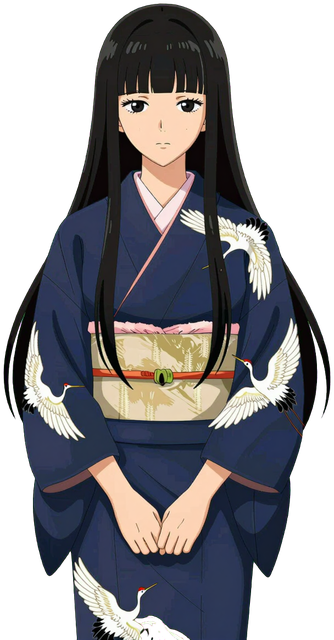
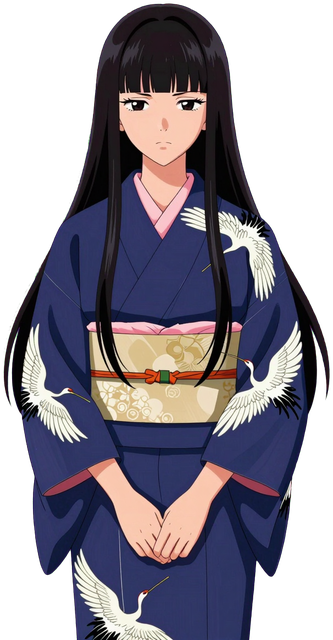
2.98.1 看板娘10人と練兵所の師範を「リアル寄り→アニメ調」の描き方で描き直し（ポーズはそのまま）、腕と体のすき間に残った白い背景・背景色を抜く（博多・津島・品川の男、村長も）

diff --git a/js/config.js b/js/config.js
@@ -1,6 +1,6 @@
 // 基本設定（数値はここで調整）
 window.SGK = window.SGK || {};
-SGK.VERSION = '2.98.0'; // 上げるときは index.html の <meta name="sgk-ver"> も同じ値に
+SGK.VERSION = '2.98.1'; // 上げるときは index.html の <meta name="sgk-ver"> も同じ値に
 SGK.SAVE_SCHEMA = 7; // セーブデータの形式番号（形式を変えたら上げて、save.js の migrate に変換を書く）
 SGK.CFG = {
   MIN_PER_SEC: 15,      // 現実1秒 = ゲーム内15分（1日 = 96秒）

diff --git a/index.html b/index.html
@@ -3,7 +3,7 @@
 <head>
 <meta charset="utf-8">
 <meta name="viewport" content="width=device-width,initial-scale=1,maximum-scale=1,user-scalable=no">
-<meta name="sgk-ver" content="2.98.0">
+<meta name="sgk-ver" content="2.98.1">
 <title>天下往来</title>
 <style>
   :root { --ink:#efe6cc; --panel:rgba(24,20,15,.88); --line:#8a7448; --gold:#f2c14e; }

diff --git a/tools/vivid_redo.py b/tools/vivid_redo.py
@@ -3,6 +3,7 @@
 ・名前は下の ITEMS のキー（town/w_kyo_a など）。省くと全員。
 ・今の絵（切り抜き済み）を背景色の上に置き、ComfyUI（Z-Image Turbo）の img2img で絵ごと描き直す（背景は単色にさせる）。
 ・背景色は服の色とぶつからない方（マゼンタ／緑）を絵の色から自動で選ぶ。
+・--real：2.98.1 ユーザーの好みの描き方。まずリアル寄りに描き直し（denoise 0.55）、それを元にアニメ調のセル塗りへ（denoise 0.65。anime_redo.py と同じ指示）。ポーズは今の絵のまま
 ・作業フォルダに 名前_raw.png（描き直した絵）と 名前.png（切り抜き、高さ640）を作る。assets へのコピーは --apply。
 """
 import os, sys, json, uuid, io, shutil, urllib.request
@@ -10,7 +11,8 @@ import numpy as np
 from PIL import Image
 sys.path.insert(0, os.path.dirname(os.path.abspath(__file__)))
 import gen_creature_art as G
-from gen_cute import KINDS, CHAR
+from gen_cute import KINDS, CHAR, REAL
+from anime_redo import ANIME as ANIME_REDO
 
 ROOT = os.path.join(os.path.dirname(os.path.abspath(__file__)), "..", "assets")
 TOWNS = ["tsushima", "shinagawa", "tsuruga", "yamaguchi", "sakata", "utazu", "sakai", "kyo", "niigata", "hakata"]
@@ -24,6 +26,15 @@ STYLE = ("hand drawn japanese TV anime cel illustration, same pose, same clothes
          "no glow, no rim light, the character stands in front of a {bg} background that fills the whole picture evenly, "
          "the background is one single flat {bg} color with nothing else in it")
 CW, CH = 896, 1216
+# 2.98.1 腕と体のすき間などに残った白い背景（外とつながっていないので抜けない）。描き直した絵（_raw、896×1216）の中の点 (x, y) を書くと、その点を含む白い所を抜く
+HOLES = {
+    "town/rp_hakata": [(647, 875), (261, 875)],
+    "town/rp_tsushima": [(249, 767), (664, 773)],
+    "town/rp_shinagawa": [(583, 865)],
+    "town/soncho_p": [(699, 949), (238, 474)],
+    "town/w_yamaguchi_a": [(380, 367)],  # --real で描き直した絵の座標
+    "town/w_tsushima_a": [(241, 432)],
+}
 
 
 def pick_bg(im):
@@ -81,11 +92,30 @@ def flood(mask):
     return out
 
 
-def cut(raw, bgname):
+def holes(rgb, pts):
+    """点を含む白い所（と、そのふち2px）を返す。ふちは白さに応じて半透明"""
+    from scipy import ndimage
+    mn, mx = rgb.min(-1), rgb.max(-1)
+    lab, _ = ndimage.label((mn > 0.85) & (mx - mn < 0.1))
+    m = np.zeros(mn.shape, bool)
+    for x, y in pts:
+        if lab[y, x]: m |= lab == lab[y, x]
+        else: print("  hole point not white:", x, y)
+    reg = ndimage.binary_dilation(m, iterations=2)
+    return np.where(reg, np.clip((mn - 0.55) / 0.35, 0, 1), 0.0)  # 1＝抜く
+
+
+def cut(raw, bgname, pts=()):
     rgb = np.asarray(raw.convert("RGB")).astype(np.float32) / 255
+    hk = holes(rgb, pts) if pts else None
     bgc = np.array(BGS[bgname][0], np.float32) / 255
     kb = key_alpha(rgb, bgname)
-    outside = flood(kb > 0.05)
+    # 外とつながった背景＋腕と体のすき間などに囲まれた背景色（はっきり背景色の画素が80以上のかたまり）
+    from scipy import ndimage
+    lab, _ = ndimage.label(kb > 0.05)
+    strong = ndimage.sum(kb > 0.6, lab, np.arange(lab.max() + 1))
+    keep = strong >= 80; keep[0] = False
+    outside = flood(kb > 0.05) | keep[lab]
     # 背景とつながった所の近く（3px）だけを半透明にしてよい所とする
     near = outside.copy()
     for _ in range(3):
@@ -105,6 +135,10 @@ def cut(raw, bgname):
     else:
         lim = np.maximum(r, b) + 0.06; sp = near & (g > lim)
         rgb = np.stack([r, np.where(sp, lim, g), b], -1)
+    if hk is not None:  # 白い穴：白の混ざりを取り除いて透明に
+        q = np.clip(1 - hk, 1e-3, 1)[..., None]
+        rgb = np.where((hk > 0)[..., None], np.clip((rgb - (1 - q)) / q, 0, 1), rgb)
+        al = np.minimum(al, 1 - hk)
     out = np.dstack([rgb, al[..., None]])
     im = Image.fromarray((out * 255 + 0.5).astype(np.uint8), "RGBA")
     bb = im.getchannel("A").point(lambda v: 255 if v > 25 else 0).getbbox()
@@ -113,13 +147,23 @@ def cut(raw, bgname):
     return im.resize((max(1, round(im.width * k)), 640), Image.LANCZOS)
 
 
+def img2img(img, prompt, seed, den, models):
+    wf = G.workflow(prompt, seed, *models, CW, CH)
+    wf["11"] = {"class_type": "LoadImage", "inputs": {"image": upload(img)}}
+    wf["7"] = {"class_type": "VAEEncode", "inputs": {"pixels": ["11", 0], "vae": ["3", 0]}}
+    wf["8"]["inputs"]["denoise"] = den
+    return G.run(wf)
+
+
 def main():
     a = sys.argv[1:]; den, seed, apply = 0.5, 2684, False
     if "--denoise" in a: i = a.index("--denoise"); den = float(a[i + 1]); del a[i:i + 2]
     if "--seed" in a: i = a.index("--seed"); seed = int(a[i + 1]); del a[i:i + 2]
     if "--apply" in a: a.remove("--apply"); apply = True
+    real = "--real" in a
+    if real: a.remove("--real")
     out, names = a[0], (a[1:] or list(ITEMS)); os.makedirs(out, exist_ok=True)
-    unet, clip, vae = G.names()
+    models = G.names()
     for nm in names:
         flat = nm.replace("/", "__")
         rawp, cutp = os.path.join(out, flat + "_raw.png"), os.path.join(out, flat + ".png")
@@ -127,14 +171,22 @@ def main():
         bgname = pick_bg(src); col, word = BGS[bgname]
         if not os.path.exists(rawp):
             desc = KINDS[ITEMS[nm]][0].replace(CHAR, "")
-            wf = G.workflow(desc + ". " + STYLE.format(bg=word), seed, unet, clip, vae, CW, CH)
-            wf["11"] = {"class_type": "LoadImage", "inputs": {"image": upload(compose(src, col))}}
-            wf["7"] = {"class_type": "VAEEncode", "inputs": {"pixels": ["11", 0], "vae": ["3", 0]}}
-            wf["8"]["inputs"]["denoise"] = den
-            with open(rawp, "xb") as f: f.write(G.run(wf))
+            bgtxt = f"the character stands in front of a {word} background that fills the whole picture evenly, the background is one single flat {word} color with nothing else in it"
+            if real:
+                realp = os.path.join(out, flat + "_real.png")
+                if not os.path.exists(realp):
+                    with open(realp, "xb") as f: f.write(img2img(compose(src, col), desc + ". same pose, same clothes" + REAL + ", " + bgtxt, seed, 0.55, models))
+                    print("real:", nm, flush=True)
+                data = img2img(Image.open(realp).convert("RGB"), desc + ". " + ANIME_REDO.replace("plain pure white background", bgtxt), seed + 1, 0.65, models)
+            else:
+                data = img2img(compose(src, col), desc + ". " + STYLE.format(bg=word), seed, den, models)
+            with open(rawp, "xb") as f: f.write(data)
             print("drew:", nm, bgname, flush=True)
         if not os.path.exists(cutp):
-            cut(Image.open(rawp), bgname).save(cutp)
+            raw = Image.open(rawp).convert("RGB")  # 背景色は描いた絵の上の隅で決める（今の絵から選び直すと変わることがある）
+            c = np.asarray(raw)[4, [4, -5]].astype(int)
+            bgname = "green" if (c[:, 1] - c[:, [0, 2]].max(1)).mean() > 0 else "magenta"
+            cut(raw, bgname, HOLES.get(nm, ())).save(cutp)
             print("cut:", cutp, flush=True)
         if apply:
             shutil.copyfile(cutp, os.path.join(ROOT, nm + ".png")); print("applied:", nm)
